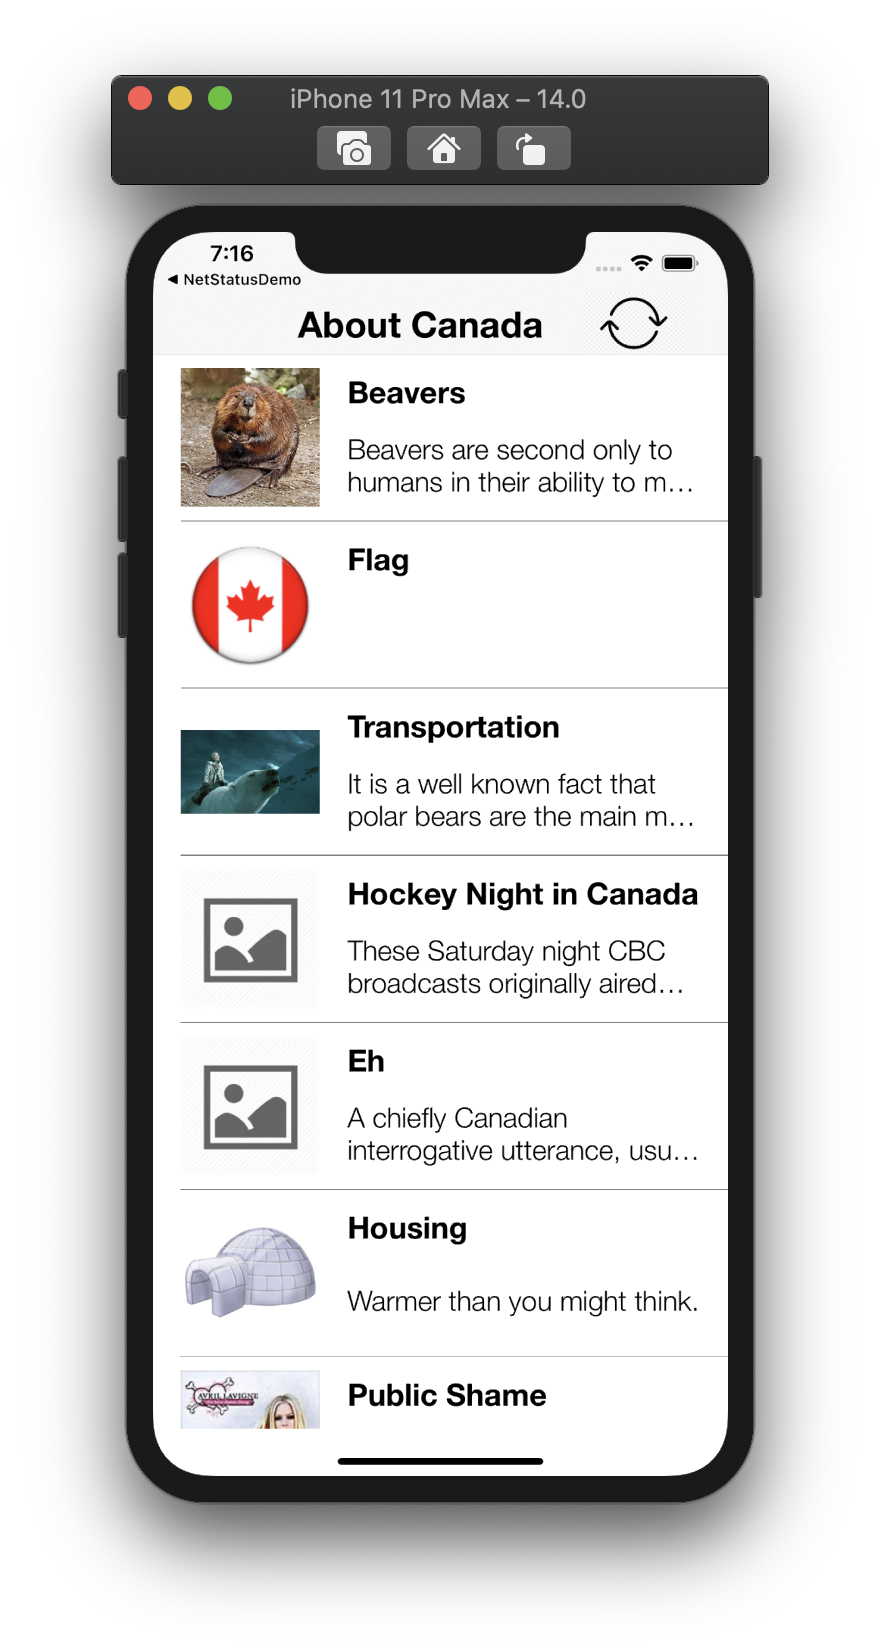
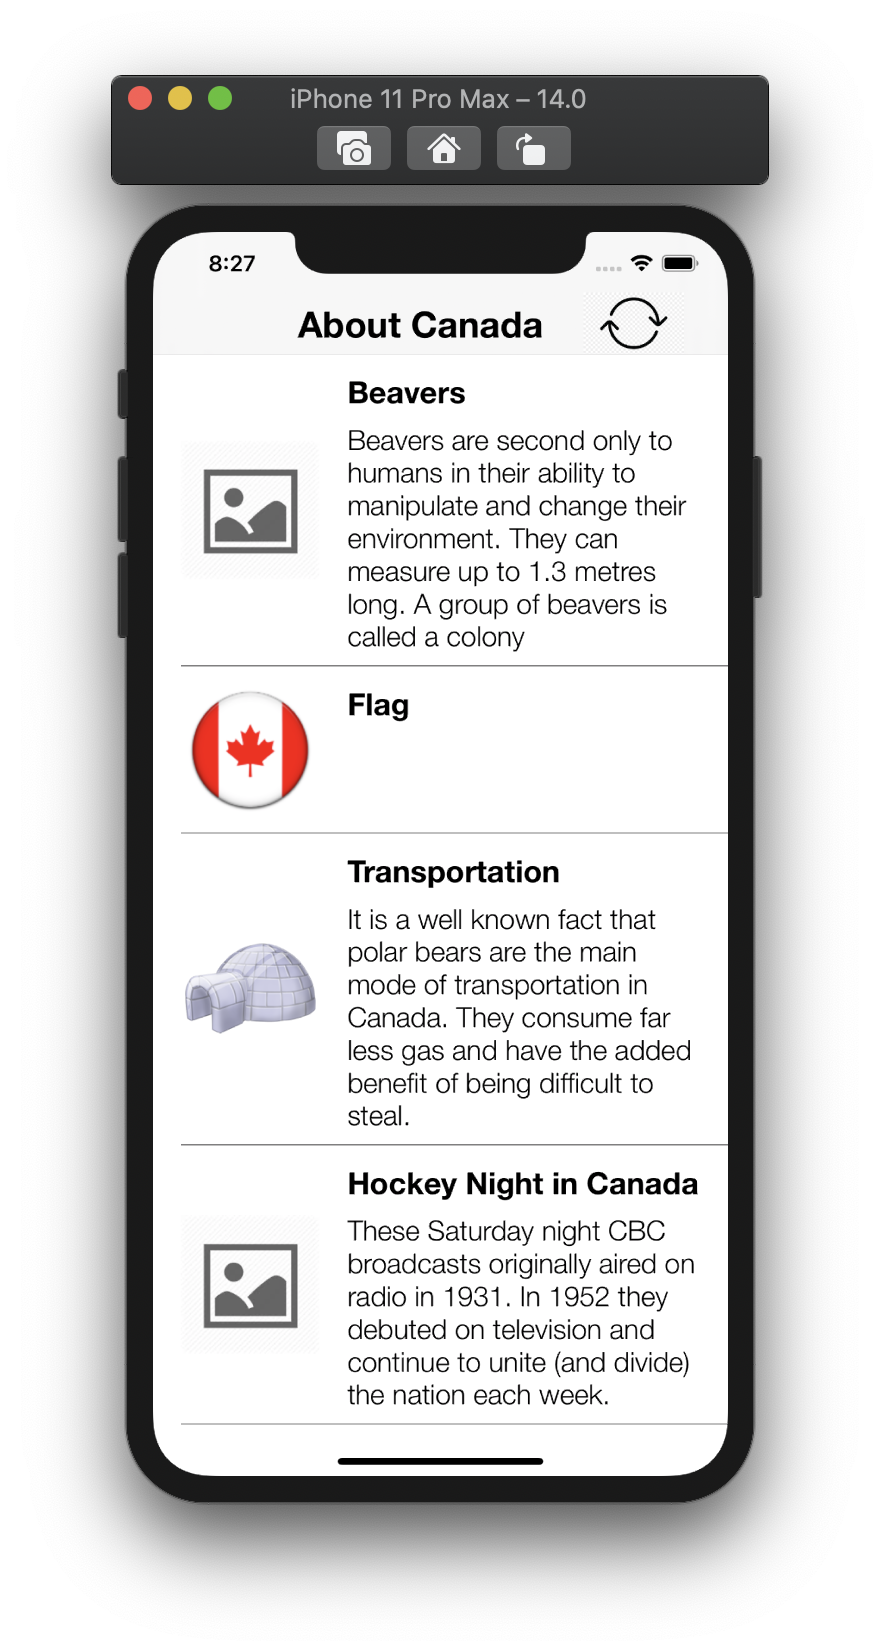
Task 14 - Integration and Non functional testing - Latest screenshot is added - Latest animatedGif image is added - AnimatedGif path is updated in the readme file - Task list is updated

diff --git a/AssignmentProject/AssignmentProject/ViewController/ViewController.swift b/AssignmentProject/AssignmentProject/ViewController/ViewController.swift
@@ -42,6 +42,8 @@ class ViewController: UIViewController {
         }
     }
     
+    // MARK: - Private functions
+    
     private func configTableView() {
         self.tableView.register(UITableViewCell.self, forCellReuseIdentifier: "UITableViewCell")
         self.tableView.register(CustomCell.self, forCellReuseIdentifier: "CustomCell")
@@ -66,7 +68,10 @@ class ViewController: UIViewController {
         self.tableView = tableView
     }
     
-    // MARK: - Private functions
+    private func scrollToFirstRow() {
+        let indexPath = IndexPath(row: 0, section: 0)
+        self.tableView.scrollToRow(at: indexPath, at: .top, animated: true)
+    }
     
     private func updateUI(pullRefresh: Bool) {
         DispatchQueue.main.async {
@@ -93,6 +98,8 @@ class ViewController: UIViewController {
                 self.hideActivityIndicator()
                 if pullRefresh {
                     self.refreshControl.endRefreshing()
+                } else {
+                    self.scrollToFirstRow()
                 }
             }
         }

diff --git a/README.md b/README.md
@@ -2,7 +2,7 @@
 
 This repository contains a sample application which will fetch details using REST API and display on the screen.
 
-<img src="https://github.com/nkwadgire/AssignmentProject/blob/develop/Screenshots/AnimatedScreenshots.gif" height=500>
+<img src="https://github.com/nkwadgire/AssignmentProject/blob/develop/Screenshots/animatedGif.gif" height=500>
 
 **The app has following folder structure:**
 
